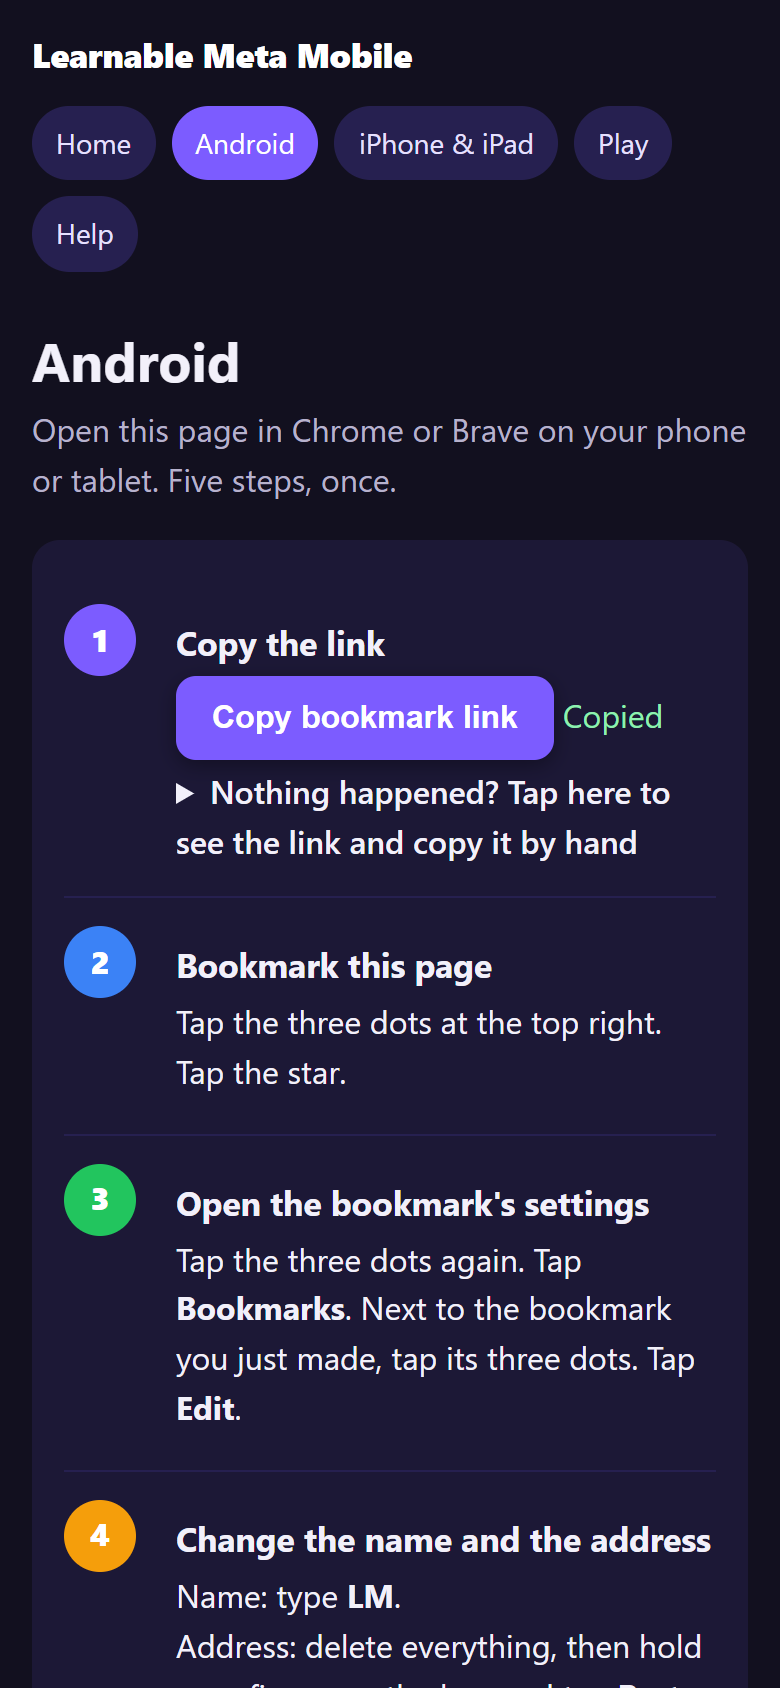
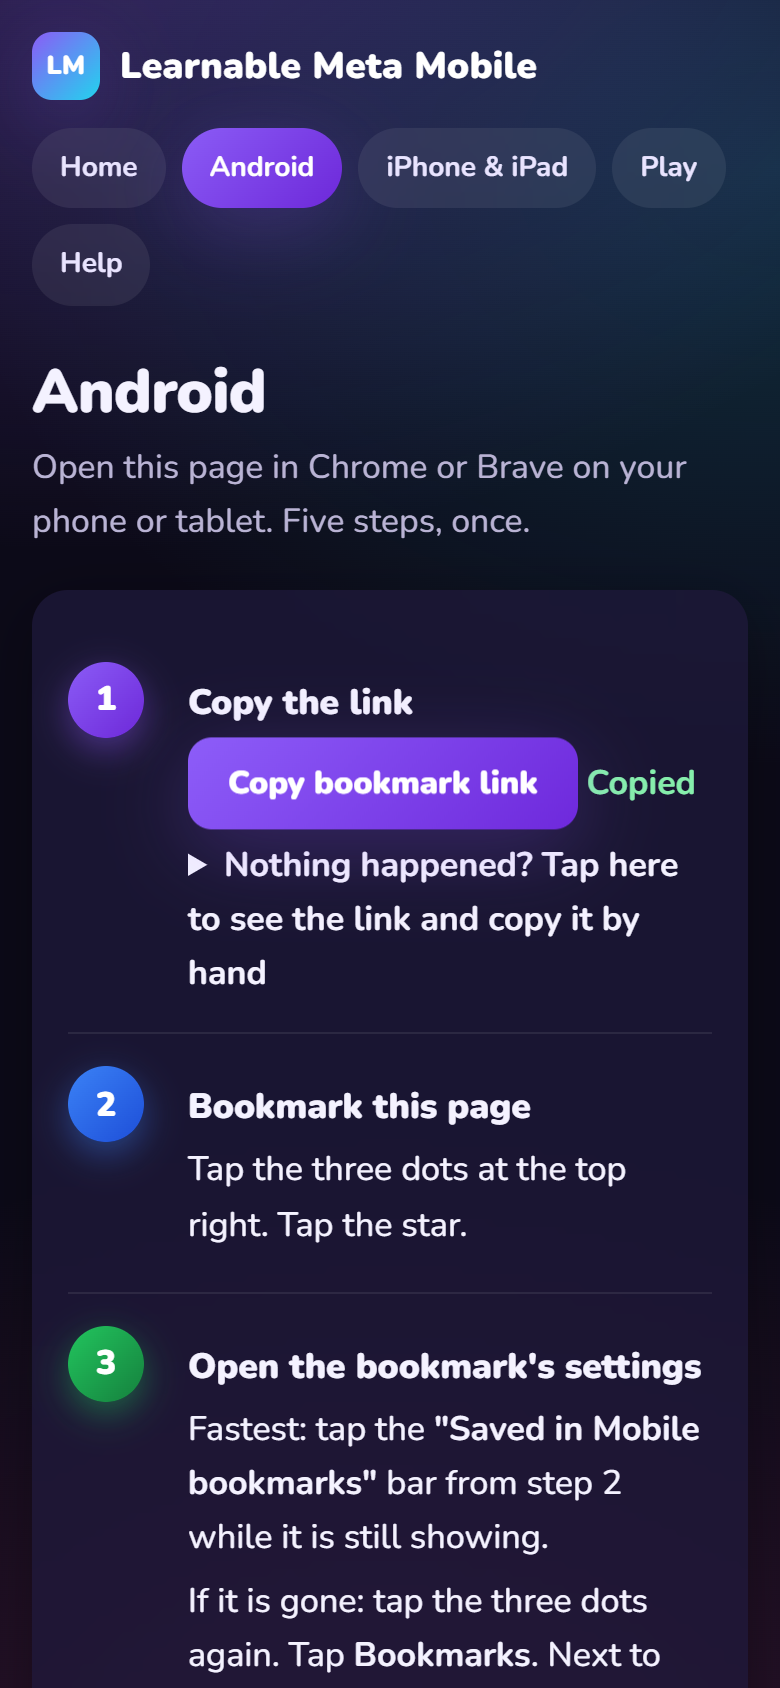
Release 1.0.0: new look, map-switch reminder, open-source link, MIT licence

diff --git a/docs/style.css b/docs/style.css
@@ -1,76 +1,141 @@
+@import url('https://fonts.googleapis.com/css2?family=Nunito:wght@500;700;900&display=swap');
+
 :root {
   color-scheme: dark;
-  --bg: #12101f;
-  --panel: #1c1836;
-  --panel-2: #262050;
-  --text: #f2f0fa;
-  --muted: #b7b2cc;
-  --purple: #7c5cff;
+  --bg: #0c0a18;
+  --panel: rgba(30, 25, 60, .72);
+  --panel-2: #2a2352;
+  --text: #f4f2ff;
+  --muted: #b9b3d4;
+  --purple: #8b5cf6;
+  --violet: #6d28d9;
   --blue: #3b82f6;
+  --cyan: #22d3ee;
   --green: #22c55e;
-  --orange: #f59e0b;
+  --orange: #f97316;
   --pink: #ec4899;
   --teal: #14b8a6;
+  --glow: 0 10px 40px rgba(139, 92, 246, .25);
 }
 * { box-sizing: border-box; }
-body { margin: 0; font: 16px/1.55 system-ui, -apple-system, "Segoe UI", Roboto, sans-serif; background: var(--bg); color: var(--text); }
-main { max-width: 760px; margin: 0 auto; padding: 16px 16px 64px; }
-header.top { max-width: 760px; margin: 0 auto; padding: 14px 16px 0; }
-header.top a.brand { color: #fff; text-decoration: none; font-weight: 800; font-size: 1.05rem; }
-nav.menu { display: flex; flex-wrap: wrap; gap: 8px; margin: 12px 0 4px; }
-nav.menu a { background: var(--panel-2); color: #e6e0ff; padding: 8px 12px; border-radius: 999px; text-decoration: none; font-size: 14px; }
-nav.menu a.current { background: var(--purple); color: #fff; }
-h1 { font-size: 1.7rem; margin: 8px 0 6px; line-height: 1.2; }
-h2 { font-size: 1.25rem; margin: 0 0 10px; }
-h3 { font-size: 1.05rem; margin: 18px 0 6px; }
+html { scroll-behavior: smooth; }
+body {
+  margin: 0;
+  font: 17px/1.6 "Nunito", system-ui, -apple-system, "Segoe UI", Roboto, sans-serif;
+  color: var(--text);
+  background:
+    radial-gradient(900px 600px at 10% -10%, rgba(139, 92, 246, .35), transparent 60%),
+    radial-gradient(700px 500px at 100% 10%, rgba(34, 211, 238, .18), transparent 60%),
+    radial-gradient(800px 600px at 50% 110%, rgba(236, 72, 153, .18), transparent 60%),
+    var(--bg);
+  background-attachment: fixed;
+}
+main { max-width: 780px; margin: 0 auto; padding: 12px 16px 72px; }
+header.top { max-width: 780px; margin: 0 auto; padding: 16px 16px 0; }
+header.top a.brand {
+  display: inline-flex; align-items: center; gap: 10px;
+  color: #fff; text-decoration: none; font-weight: 900; font-size: 1.15rem; letter-spacing: .2px;
+}
+header.top a.brand::before {
+  content: "LM"; display: inline-flex; align-items: center; justify-content: center;
+  width: 34px; height: 34px; border-radius: 10px; font-size: 13px; font-weight: 900;
+  background: linear-gradient(135deg, var(--purple), var(--cyan)); color: #fff; box-shadow: var(--glow);
+}
+nav.menu { display: flex; flex-wrap: wrap; gap: 8px; margin: 14px 0 4px; }
+nav.menu a {
+  background: rgba(255, 255, 255, .07); color: #e9e4ff; padding: 9px 14px; border-radius: 999px;
+  text-decoration: none; font-size: 14px; font-weight: 700; backdrop-filter: blur(8px);
+  transition: transform .15s ease, background .15s ease;
+}
+nav.menu a:hover { transform: translateY(-1px); background: rgba(255, 255, 255, .14); }
+nav.menu a.current { background: linear-gradient(135deg, var(--purple), var(--violet)); color: #fff; box-shadow: var(--glow); }
+
+h1 { font-size: clamp(1.9rem, 6vw, 2.6rem); margin: 10px 0 8px; line-height: 1.12; font-weight: 900; letter-spacing: -.3px; }
+h1 .grad, .grad {
+  background: linear-gradient(90deg, #c4b5fd, #67e8f9 55%, #f9a8d4); -webkit-background-clip: text; background-clip: text; color: transparent;
+}
+h2 { font-size: 1.35rem; margin: 0 0 10px; font-weight: 900; }
+h3 { font-size: 1.1rem; margin: 18px 0 6px; font-weight: 900; }
 p { margin: 8px 0; }
-.sub { color: var(--muted); margin: 0 0 18px; }
-section { background: var(--panel); border-radius: 14px; padding: 18px 16px; margin: 0 0 16px; }
+.sub { color: var(--muted); margin: 0 0 20px; font-size: 1.05rem; }
+section {
+  background: var(--panel); backdrop-filter: blur(10px); -webkit-backdrop-filter: blur(10px);
+  border-radius: 18px; padding: 20px 18px; margin: 0 0 18px; box-shadow: 0 10px 30px rgba(0, 0, 0, .35);
+}
 ol, ul { padding-left: 22px; margin: 8px 0; }
 li { margin: 6px 0; }
-a { color: #c4b5ff; }
-.btn { display: inline-block; padding: 12px 18px; border-radius: 10px; background: var(--purple); color: #fff; font-weight: 700; text-decoration: none; border: 0; font-size: 16px; cursor: pointer; box-shadow: 0 3px 10px rgba(0, 0, 0, .35); }
-.btn.secondary { background: var(--blue); }
-.btn.play { background: linear-gradient(135deg, #f59e0b, #ea580c); }
-.btn.help { background: linear-gradient(135deg, #14b8a6, #0e7490); }
-.btn.big { display: block; text-align: center; padding: 16px; font-size: 18px; margin: 10px 0; }
+a { color: #c4b5fd; }
+.btn {
+  display: inline-block; padding: 12px 20px; border-radius: 12px; color: #fff; font-weight: 900; text-decoration: none;
+  border: 0; font-size: 16px; cursor: pointer; font-family: inherit;
+  background: linear-gradient(135deg, var(--purple), var(--violet)); box-shadow: var(--glow);
+  transition: transform .15s ease, filter .15s ease;
+}
+.btn:hover { transform: translateY(-2px); filter: brightness(1.08); }
+.btn.secondary { background: linear-gradient(135deg, var(--blue), #1d4ed8); }
+.btn.play { background: linear-gradient(135deg, var(--orange), #dc2626); box-shadow: 0 10px 40px rgba(249, 115, 22, .3); }
+.btn.help { background: linear-gradient(135deg, var(--teal), #0e7490); box-shadow: 0 10px 40px rgba(20, 184, 166, .3); }
+.btn.big { display: block; text-align: center; padding: 18px; font-size: 19px; margin: 12px 0; }
 .drag { cursor: grab; }
 code, textarea, pre { font-family: ui-monospace, Menlo, Consolas, monospace; font-size: 13px; }
-code { background: #0f0d1c; padding: 1px 5px; border-radius: 4px; }
-textarea { width: 100%; min-height: 84px; margin-top: 8px; background: #0f0d1c; color: #dcd8f0; border: 0; border-radius: 8px; padding: 8px; }
-.ok { color: #8ef0b0; }
-.warn { color: #ffd27a; }
-.hint { color: var(--muted); font-size: 14px; }
-details summary { cursor: pointer; font-weight: 600; }
-.tag { display: inline-block; font-size: 12px; font-weight: 700; padding: 2px 8px; border-radius: 999px; background: var(--panel-2); color: #e6e0ff; vertical-align: middle; margin-left: 6px; }
+code { background: rgba(0, 0, 0, .45); padding: 2px 6px; border-radius: 6px; color: #e9e4ff; }
+textarea { width: 100%; min-height: 84px; margin-top: 8px; background: rgba(0, 0, 0, .45); color: #dcd8f0; border: 0; border-radius: 10px; padding: 10px; }
+.ok { color: #86efac; font-weight: 700; }
+.warn { color: #fde68a; font-weight: 700; }
+.hint { color: var(--muted); font-size: 14.5px; }
+details summary { cursor: pointer; font-weight: 700; }
+.tag { display: inline-block; font-size: 12px; font-weight: 900; padding: 3px 10px; border-radius: 999px; background: rgba(255, 255, 255, .1); color: #e9e4ff; vertical-align: middle; margin-left: 6px; }
+
+/* hero (home) */
+.hero { display: grid; grid-template-columns: 1.2fr .8fr; gap: 18px; align-items: center; margin: 6px 0 20px; }
+.hero img { width: 100%; max-width: 300px; margin: 0 auto; display: block; border-radius: 22px; box-shadow: 0 25px 60px rgba(0, 0, 0, .55), var(--glow); transform: rotate(3deg); }
+@media (max-width: 640px) { .hero { grid-template-columns: 1fr; } .hero img { max-width: 240px; transform: rotate(2deg); } }
+
+/* the big reminder */
+.remember {
+  display: flex; gap: 14px; align-items: center; margin: 14px 0 18px; padding: 16px 18px; border-radius: 16px; color: #fff;
+  background: linear-gradient(135deg, #f97316, #ec4899); box-shadow: 0 12px 40px rgba(236, 72, 153, .35);
+  font-weight: 700; font-size: 1.05rem;
+}
+.remember .icon { flex: none; width: 46px; height: 46px; border-radius: 50%; background: rgba(255, 255, 255, .2); display: flex; align-items: center; justify-content: center; font-size: 24px; }
+.remember b { font-weight: 900; }
 
 /* step-by-step blocks */
-.step { display: grid; grid-template-columns: 44px 1fr; gap: 12px; padding: 14px 0; border-top: 1px solid var(--panel-2); }
+.step { display: grid; grid-template-columns: 46px 1fr; gap: 14px; padding: 16px 0; border-top: 1px solid rgba(255, 255, 255, .08); }
 .step:first-of-type { border-top: 0; }
-.step .num { width: 36px; height: 36px; border-radius: 50%; background: var(--purple); color: #fff; font-weight: 800; display: flex; align-items: center; justify-content: center; }
-.step:nth-of-type(2) .num { background: var(--blue); }
-.step:nth-of-type(3) .num { background: var(--green); }
-.step:nth-of-type(4) .num { background: var(--orange); }
-.step:nth-of-type(5) .num { background: var(--pink); }
+.step .num { width: 38px; height: 38px; border-radius: 50%; color: #fff; font-weight: 900; display: flex; align-items: center; justify-content: center; background: linear-gradient(135deg, var(--purple), var(--violet)); box-shadow: 0 6px 18px rgba(139, 92, 246, .45); }
+.step:nth-of-type(2) .num { background: linear-gradient(135deg, var(--blue), #1d4ed8); box-shadow: 0 6px 18px rgba(59, 130, 246, .45); }
+.step:nth-of-type(3) .num { background: linear-gradient(135deg, var(--green), #15803d); box-shadow: 0 6px 18px rgba(34, 197, 94, .45); }
+.step:nth-of-type(4) .num { background: linear-gradient(135deg, var(--orange), #c2410c); box-shadow: 0 6px 18px rgba(249, 115, 22, .45); }
+.step:nth-of-type(5) .num { background: linear-gradient(135deg, var(--pink), #be185d); box-shadow: 0 6px 18px rgba(236, 72, 153, .45); }
 .step h3 { margin: 6px 0 4px; }
 .step p { margin: 4px 0; }
 .step figure { margin: 10px 0 0; }
-figure img { display: block; max-width: 100%; height: auto; border-radius: 10px; background: #0f0d1c; box-shadow: 0 3px 14px rgba(0, 0, 0, .45); }
+figure img { display: block; max-width: 100%; height: auto; border-radius: 14px; background: #0f0d1c; box-shadow: 0 12px 30px rgba(0, 0, 0, .5); }
 figure.phone img { max-width: 280px; }
 figure.wide img { width: 100%; }
-figcaption { color: var(--muted); font-size: 13px; margin-top: 6px; }
+figcaption { color: var(--muted); font-size: 13.5px; margin-top: 8px; }
 .row { display: flex; flex-wrap: wrap; gap: 16px; align-items: flex-start; }
 .row figure { flex: 1 1 240px; margin: 10px 0 0; }
-.placeholder { max-width: 280px; min-height: 120px; border-radius: 10px; padding: 14px; color: #fff; font-size: 14px; background: linear-gradient(135deg, #3b3170, #2a2550); }
-.placeholder b { color: #ffd27a; }
+.placeholder { max-width: 280px; min-height: 120px; border-radius: 14px; padding: 14px; color: #fff; font-size: 14px; background: linear-gradient(135deg, #3b3170, #2a2550); }
+.placeholder b { color: #fde68a; }
 
 /* device cards */
-.cards { display: grid; grid-template-columns: repeat(auto-fit, minmax(200px, 1fr)); gap: 12px; }
-.card { display: block; border-radius: 14px; padding: 18px 16px; text-decoration: none; color: #fff; background: linear-gradient(135deg, #7c5cff, #4c2fd6); box-shadow: 0 4px 14px rgba(0, 0, 0, .35); }
-.card.android { background: linear-gradient(135deg, #22c55e, #15803d); }
-.card.iphone { background: linear-gradient(135deg, #3b82f6, #1e40af); }
-.card:hover { filter: brightness(1.08); }
-.card b { display: block; font-size: 1.1rem; margin-bottom: 4px; }
-.card span { color: rgba(255, 255, 255, .85); font-size: 14px; }
+.cards { display: grid; grid-template-columns: repeat(auto-fit, minmax(220px, 1fr)); gap: 14px; }
+.card { display: block; border-radius: 18px; padding: 22px 18px; text-decoration: none; color: #fff; background: linear-gradient(135deg, var(--purple), var(--violet)); box-shadow: 0 14px 40px rgba(0, 0, 0, .4); transition: transform .15s ease; }
+.card.android { background: linear-gradient(135deg, #22c55e, #0f766e); }
+.card.iphone { background: linear-gradient(135deg, #3b82f6, #4f46e5); }
+.card:hover { transform: translateY(-3px) scale(1.01); }
+.card .big-icon { font-size: 30px; display: block; margin-bottom: 6px; }
+.card b { display: block; font-size: 1.2rem; margin-bottom: 4px; font-weight: 900; }
+.card span { color: rgba(255, 255, 255, .88); font-size: 14.5px; }
 .next { margin-top: 18px; }
-footer { color: var(--muted); font-size: 14px; text-align: center; margin-top: 24px; }
+footer { color: var(--muted); font-size: 14px; text-align: center; margin-top: 28px; }
+
+@media (prefers-reduced-motion: no-preference) {
+  main > * { animation: rise .5s ease both; }
+  main > *:nth-child(2) { animation-delay: .05s; }
+  main > *:nth-child(3) { animation-delay: .1s; }
+  main > *:nth-child(4) { animation-delay: .15s; }
+  @keyframes rise { from { opacity: 0; transform: translateY(10px); } to { opacity: 1; transform: none; } }
+}

diff --git a/docs/index.html b/docs/index.html
@@ -20,26 +20,35 @@
   </nav>
 </header>
 <main>
-  <h1>Learnable Meta on your phone</h1>
-  <p class="sub">See the Learnable Meta clue after every GeoGuessr guess, on a phone or tablet, in your normal browser. No app to install. No extension.</p>
+  <div class="hero">
+    <div>
+      <h1>Learnable Meta <span class="grad">on your phone</span></h1>
+      <p class="sub">See the clue after every GeoGuessr guess, on a phone or tablet, in your normal browser. No app to install. No extension.</p>
+      <a class="btn big play" href="play.html">I have the LM bookmark, let's play</a>
+    </div>
+    <img src="img/phone-meta-window.png" alt="A phone showing the GeoGuessr result screen with the Learnable Meta clue window" loading="eager">
+  </div>
 
-  <section>
+  <div class="remember">
+    <div class="icon">🔖</div>
+    <div><b>Every new map, tap LM again.</b> The bookmark only lasts for the game you are in. Start a new map or reload the page, and you need to tap it once more.</div>
+  </div>
+
+  <h2>Set up once. Pick your phone.</h2>
+  <div class="cards">
+    <a class="card android" href="android.html"><span class="big-icon">🤖</span><b>Android</b><span>Chrome, Brave, Edge or Samsung Internet. Five steps, two minutes.</span></a>
+    <a class="card iphone" href="iphone.html"><span class="big-icon">🍎</span><b>iPhone or iPad</b><span>Safari. Four steps, two minutes.</span></a>
+  </div>
+
+  <section style="margin-top:18px">
     <h2>How it works</h2>
     <ol>
-      <li>You save one bookmark, named <b>LM</b>. Takes two minutes, once.</li>
-      <li>When you play, you tap that bookmark once. It loads the real Learnable Meta script into the game.</li>
-      <li>After each guess, the clue for that place appears.</li>
+      <li>You save one bookmark, named <b>LM</b>. Once.</li>
+      <li>In a game, you tap that bookmark. It loads the real Learnable Meta script into the page.</li>
+      <li>After each guess, the clue for that place appears. <b>New map? Tap LM again.</b></li>
     </ol>
     <p class="hint">Works in Chrome, Brave, Edge, Samsung Internet and Safari. It does not work in the GeoGuessr app, only on the website.</p>
   </section>
-
-  <h2>Pick your phone</h2>
-  <div class="cards">
-    <a class="card android" href="android.html"><b>Android</b><span>Chrome, Brave, Edge or Samsung Internet</span></a>
-    <a class="card iphone" href="iphone.html"><b>iPhone or iPad</b><span>Safari</span></a>
-  </div>
-
-  <p class="next"><a class="btn big play" href="play.html">Already have the bookmark? Go to Play</a></p>
 
   <section>
     <h2>Status</h2>
@@ -48,7 +57,7 @@
 
   <footer>
     Not affiliated with GeoGuessr or Learnable Meta. The script is by the <a href="https://learnablemeta.com" target="_blank" rel="noopener">Learnable Meta</a> team and is loaded unchanged from their site.
-    <br><a href="host.html">Host your own copy</a>
+    <br><span data-repo-only>Open source: <a data-repo href="#" target="_blank" rel="noopener">code on GitHub</a> · </span><a href="host.html">Host your own copy</a>
   </footer>
 </main>
 <script src="config.js"></script>

diff --git a/docs/play.html b/docs/play.html
@@ -22,6 +22,11 @@
   <h1>Play</h1>
   <p class="sub">Three steps, every game.</p>
 
+  <div class="remember">
+    <div class="icon">🔖</div>
+    <div><b>Every new map, tap LM again.</b> The bookmark works for the game you are in. When you start another map, or the page reloads, the clues stop until you tap LM once more. Rounds inside the same game do not need it.</div>
+  </div>
+
   <section>
     <div class="step">
       <div class="num">1</div>
@@ -70,7 +75,7 @@
   <section>
     <h2>Good to know</h2>
     <ul>
-      <li>If you reload the page or open GeoGuessr again, tap the bookmark again. Going from round to round does not need it.</li>
+      <li><b>New map, new tap.</b> Whenever you switch to another map, or reload the page, tap LM again. Rounds inside one game do not need it.</li>
       <li>Clues only appear on Learnable Meta maps.</li>
       <li>On a small phone the window is cramped. A tablet is better, or use "Desktop site" in the browser menu.</li>
     </ul>

diff --git a/docs/config.js b/docs/config.js
@@ -1,7 +1,7 @@
 // The only file to edit if you host your own copy.
 // relay: your Cloudflare Worker address.
-// repo:  where the project files can be downloaded. Leave empty to show no link.
+// repo:  where the project files live. Leave empty to show no link.
 window.LM_CONFIG = {
   relay: 'https://lm-relay.overlaisupport.workers.dev',
-  repo: ''
+  repo: 'https://github.com/lm-mobile/lm-mobile.github.io'
 };

diff --git a/docs/android.html b/docs/android.html
@@ -101,6 +101,11 @@
     </div>
   </section>
 
+  <div class="remember">
+    <div class="icon">🔖</div>
+    <div><b>Remember: every new map, tap LM again.</b> The bookmark only lasts for the game you are in.</div>
+  </div>
+
   <p class="next"><a class="btn big" href="play.html">Next: Play</a></p>
 </main>
 <script src="config.js"></script>

diff --git a/worker.js b/worker.js
@@ -20,7 +20,7 @@
  * only on a relay that is yours alone.
  */
 
-const SITE_URL = 'https://lm-mobile-guide.github.io/';
+const SITE_URL = 'https://lm-mobile.github.io/';
 const UPSTREAM = 'https://learnablemeta.com';
 const ALLOWED_ORIGIN = /^https:\/\/([a-z0-9-]+\.)*geoguessr\.com$/i;
 const FORWARD_AUTHORIZATION = false;

diff --git a/worker.template.js b/worker.template.js
@@ -20,7 +20,7 @@
  * only on a relay that is yours alone.
  */
 
-const SITE_URL = 'https://lm-mobile-guide.github.io/';
+const SITE_URL = 'https://lm-mobile.github.io/';
 const UPSTREAM = 'https://learnablemeta.com';
 const ALLOWED_ORIGIN = /^https:\/\/([a-z0-9-]+\.)*geoguessr\.com$/i;
 const FORWARD_AUTHORIZATION = false;

diff --git a/docs/iphone.html b/docs/iphone.html
@@ -68,6 +68,11 @@
     </div>
   </section>
 
+  <div class="remember">
+    <div class="icon">🔖</div>
+    <div><b>Remember: every new map, tap LM again.</b> The bookmark only lasts for the game you are in.</div>
+  </div>
+
   <p class="next"><a class="btn big" href="play.html">Next: Play</a></p>
 
   <section>

diff --git a/README.md b/README.md
@@ -5,8 +5,8 @@ in Chrome, Brave, Edge, Samsung Internet or Safari, with no userscript manager.
 A bookmark loads the official, unmodified script into the GeoGuessr page; a tiny
 free relay lets it reach the Learnable Meta server.
 
-**Guide website:** the `docs` folder, published as a static site (see `SITE_URL`
-in `worker.js` for the current address). Pages: home, Android, iPhone and iPad,
+**Guide website:** https://lm-mobile.github.io/ (the `docs` folder, published by GitHub Pages)
+Pages: home, Android, iPhone and iPad,
 Play, Help, Host your own.
 
 **Relay:** https://lm-relay.overlaisupport.workers.dev (the address the bookmark uses)
@@ -46,7 +46,8 @@ reload.
 | `lm-mobile.js` | The loader source. Embedded into `worker.js` by `build.sh`. |
 | `worker.template.js` | Worker source with the `/*__LOADER__*/` placeholder. |
 | `build.sh` | Rebuilds `worker.js` after editing the loader or the template. |
-| `docs/index.html`, `docs/img/` | The guide website, served by GitHub Pages from the `docs` folder. |
+| `docs/` | The guide website (one HTML page per topic, `config.js`, `style.css`, `img/`), served by GitHub Pages. |
+| `LICENSE` | MIT. The Learnable Meta script itself is not covered; it belongs to its authors. |
 | `wrangler.jsonc` | Lets `npx wrangler deploy` and Cloudflare's GitHub integration deploy the worker. |
 | `dev-server.mjs` | Runs `worker.js` locally for testing: `node dev-server.mjs 8787`. |
 | `bookmarklet.txt` | The bookmark link, for setting it up by hand. |
@@ -60,9 +61,8 @@ reload.
    Or connect the fork: Workers & Pages, Create, Import a repository. Cloudflare
    then deploys on every push using `wrangler.jsonc`.
    Or from a terminal: `npx wrangler login` then `npx wrangler deploy`.
-3. **Point things at each other:** change the `lm-relay` meta tag at the top of
-   `docs/index.html` to your relay address, and `SITE_URL` at the top of
-   `worker.template.js` to your Pages address, then run `bash build.sh`.
+3. **Point things at each other:** set `relay` and `repo` in `docs/config.js`,
+   and `SITE_URL` at the top of `worker.template.js`, then run `bash build.sh`.
 4. **Website:** in the fork's Settings, Pages, choose "Deploy from a branch",
    branch `main`, folder `/docs`.
 
@@ -90,5 +90,8 @@ Tap the round **LM** button on the GeoGuessr page:
 - iPhone and iPad: Safari plus the Tampermonkey app (paid) or the free
   Userscripts app.
 
-Not affiliated with GeoGuessr or Learnable Meta. The script belongs to the
-Learnable Meta team and is loaded unmodified from their official address.
+## Licence
+
+MIT, see `LICENSE`. Not affiliated with GeoGuessr or Learnable Meta. The script
+belongs to the Learnable Meta team and is loaded unmodified from their official
+address.
